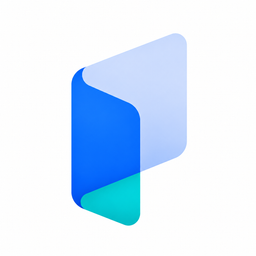
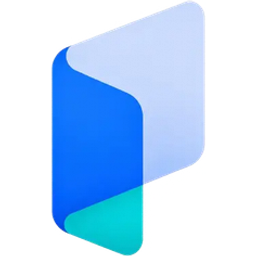
The app is called Lucille, and now it says so
The sidebar read "Figtries / Progress Report" — a company name over a
description of one of the five things the app does. It is Lucille now: the
mark, the word, and nothing under it.

The tab title is a template rather than a bare string. Every page below sets
its own ("Projects", "Dashboard"), so the root title was never rendered
anywhere and the browser tab — the one place a desktop user reads an app's
name — only ever said which page it was.

The favicon is the mark trimmed of its transparent border and re-fitted to
256px, so it survives being drawn at 16. The Android/PWA icons are untouched,
as asked. The sidebar mark is 307x512 and sized by HEIGHT: squared off it had
to shrink to fit its own canvas and read as a speck beside the word.

Changed region(s): [[0.1875, 0.0, 0.8125, 1.0]]

diff --git a/components/layout/Sidebar.tsx b/components/layout/Sidebar.tsx
@@ -256,17 +256,17 @@ function LiveNavList() {
 function Brand({ compact }: { compact?: boolean }) {
   return (
     <div className="flex items-center gap-2.5">
+      {/* The mark is taller than it is wide (307x512), so it is sized by
+          HEIGHT and left to find its own width. Squared off it would have had
+          to shrink to fit, and at 32px it read as a speck beside the word. */}
       <Image
-        src="/figtries-logo (1).png"
-        alt="Figtries"
-        width={compact ? 28 : 32}
+        src="/lucille-mark.png"
+        alt=""
+        width={compact ? 17 : 19}
         height={compact ? 28 : 32}
-        className={compact ? 'h-7 w-7 object-contain' : 'h-8 w-8 object-contain'}
+        className={compact ? 'h-7 w-auto' : 'h-8 w-auto'}
       />
-      <div>
-        <h1 className={cn('font-semibold text-foreground', compact ? 'text-sm' : 'text-base')}>Figtries</h1>
-        <p className={cn('text-muted-foreground', compact ? 'text-[10px]' : 'text-xs')}>Progress Report</p>
-      </div>
+      <h1 className={cn('font-semibold text-foreground', compact ? 'text-sm' : 'text-base')}>Lucille</h1>
     </div>
   );
 }
@@ -382,7 +382,10 @@ export default function Sidebar({
           <MobileDrawer switcher={switcher} />
           {openTag}
         </Suspense>
-        <span className="text-sm font-semibold text-foreground">Progress Report</span>
+        {/* The mark and the name, not <Brand>: the desktop sidebar already
+            renders that <h1>, and both halves sit in the DOM at once. */}
+        <Image src="/lucille-mark.png" alt="" width={14} height={24} className="h-6 w-auto" />
+        <span className="text-sm font-semibold text-foreground">Lucille</span>
       </header>
 
       {/* Desktop: full sidebar */}

diff --git a/app/layout.tsx b/app/layout.tsx
@@ -16,8 +16,11 @@ const inter = Inter({
 });
 
 export const metadata: Metadata = {
-  title: "Weekly Progress Report",
-  description: "Weekly Progress Report System - Track project progress and generate reports",
+  // A template, not a bare string: every page below sets its own title
+  // ('Projects', 'Dashboard', …), and without this the browser tab — the one
+  // place a desktop user reads the app's name — never said which app it was.
+  title: { default: "Lucille", template: "%s · Lucille" },
+  description: "Lucille - project control: plan, track progress and issue reports",
 };
 
 export default async function RootLayout({

diff --git a/app/manifest.ts b/app/manifest.ts
@@ -15,10 +15,10 @@ import type { MetadataRoute } from "next";
  */
 export default function manifest(): MetadataRoute.Manifest {
   return {
-    name: "Weekly Progress Report",
-    short_name: "Report",
+    name: "Lucille",
+    short_name: "Lucille",
     description:
-      "Weekly Progress Report System - Track project progress and generate reports",
+      "Lucille - project control: plan, track progress and issue reports",
     start_url: "/",
     display: "standalone",
     background_color: "#f9fafb",
